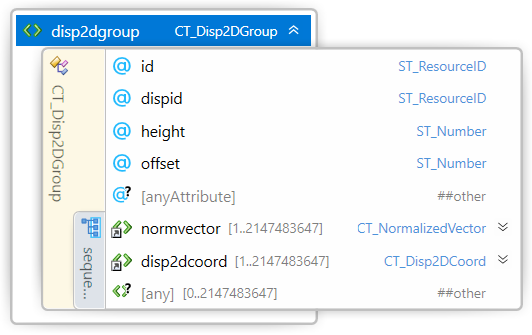
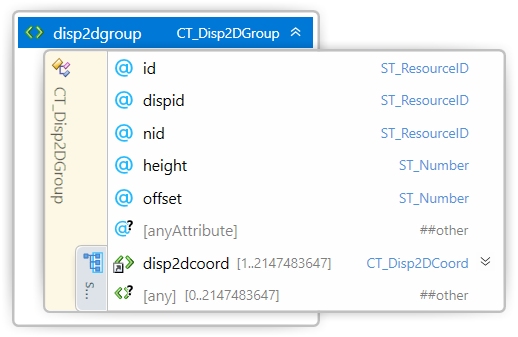
Split normvectorgroup
Split the normvectorgroup so indexing the elements is not confusing

diff --git a/3MF Displacement Extension.md b/3MF Displacement Extension.md
@@ -13,7 +13,7 @@
 
 
 
-| **Version** | 0.7.3 |
+| **Version** | 0.7.4 |
 | --- | --- |
 | **Status** | Draft |
 
@@ -29,7 +29,8 @@
   * [Chapter 2. Displacement Maps](#chapter-2-displacement-maps)
   * [Chapter 3. Resources](#chapter-3-resources)
     + [3.1 Displacement2D](#31-displacement2d)
-    + [3.2 Disp2DGroup](#32-disp2dgroup)
+    + [3.2 NormVectorGroup](#32-normvectorgroup)
+    + [3.3 Disp2DGroup](#33-disp2dgroup)
   * [Chapter 4. Object](#chapter-4-object)
 	+ [4.1 Triangle](#41-triangle)
   * [Chapter 5. Usage rules](#chapter-5-usage-rules)
@@ -63,7 +64,7 @@ This extension MUST be used only with Core specification 1.x.
 
 See [the 3MF Core Specification conventions](https://github.com/3MFConsortium/spec_core/blob/1.3.0/3MF%20Core%20Specification.md#document-conventions).
 
-In this extension specification, as an example, the prefix "d" maps to the xml-namespace "http://schemas.microsoft.com/3dmanufacturing/displacement/2018/05". See Appendix [C.3 Namespaces](#c3-namespaces).
+In this extension specification, as an example, the prefix "d" maps to the xml-namespace "http://schemas.microsoft.com/3dmanufacturing/displacement/2023/05". See Appendix [C.3 Namespaces](#c3-namespaces).
 
 ## Language Notes
 
@@ -286,38 +287,21 @@ The displacement texture values range are independent from the image coding rang
 
 **filter** - The producer MAY require the use of a specific filter type by specifying either “linear” for bilinear interpolation or “nearest” for nearest neighbor interpolation. The producer SHOULD use “auto” to indicate to the consumer to use the highest quality filter available. If the source texture is scaled with the model, the specified filter type MUST be applied to the scaling operation. The default value is “auto”.
 
-## 3.2 Disp2DGroup
-Element **\<disp2dgroup>**
+## 3.2 NormVectorGroup
+Element **\<normvectorgroup>**
 
-![Disp2dGroup XML structure](images/xsd_disp2dgroup.png)
+![NormVectorGroup XML structure](images/xsd_normvectorgroup.png)
 
 | Name   | Type   | Use   | Default   | Annotation |
 | --- | --- | --- | --- | --- |
-| id | **ST\_ResourceID** | required |   | ResourceID of this Disp2dGroup resource |
-| dispid | **ST\_ResourceID** | required |   | ID of the Displacement map used in this group |
-| height | **ST\_Number** | required |   | The amplitude of the mapped values in the texture |
-| offset | **ST\_Number** |  |  0 | Offset to the displacement map amplitude |
+| id | **ST\_ResourceID** | required |   | ResourceID of this NormVectorGroup resource |
 | @anyAttribute | | | | |
 
-A \<disp2dgroup> element acts as a container for texture coordinate properties. The order of these elements forms an implicit 0-based index that is referenced by other elements, such as the \<object> and \<triangle> elements. It also specifies which image to use, via dispid. The referenced \<displacement2d> elements are described above in [2.1 Displacement2D](#21-displacement2d).
-
-**id** - Specifies a unique identifier for this displacement resource. 
-
-**dispid** - Selects the ID of the Displacement map used in this displacement group. 
-
-**height** - The height attribute defines the displacement amplitude in the model units for the maximum texture value range.
-
-**offset** - The offset attribute defines the displacement offset in the model units. The offset default value is 0.
-
-The displacement map (dm), at barycentric coordinates u, v,is computed by:
-
-	dm(u,v) = texture(u,v) * height + offset
-
-where the texture value is in the range [0, 1], and the displacement map is applied in the model unit resolution, as specified in the 3MF core specification ([3.4 Model](https://github.com/3MFConsortium/spec_core/blob/1.3.0/3MF%20Core%20Specification.md#34-model)).
-
-A positive displacement map specifies an embossing and a negative displacement map specifies a debossing of the original mesh.
+A \<normvectorgroup> element acts as a container for normalized vectors properties. The order of these elements forms an implicit 0-based index that is referenced by the \<disp2dcoords> element.
 
 To avoid integer overflows, a texture coordinate group MUST contain less than 2^31 disp2dcoords.
+
+**id** - Specifies a unique identifier for this displacement resource. 
 
 ### 3.2.1 NormVector
 Element **\<normvector>**
@@ -347,7 +331,43 @@ Which is:
 
 	displacement vector = displacement map * factor * normalized vector
 
-### 3.2.2 Disp2DCoords
+## 3.3 Disp2DGroup
+Element **\<disp2dgroup>**
+
+![Disp2dGroup XML structure](images/xsd_disp2dgroup.png)
+
+| Name   | Type   | Use   | Default   | Annotation |
+| --- | --- | --- | --- | --- |
+| id | **ST\_ResourceID** | required |   | ResourceID of this Disp2dGroup resource |
+| dispid | **ST\_ResourceID** | required |   | ID of the Displacement map used in this group |
+| nid | **ST\_ResourceID** | required | | ID of the normalized vector group used in this group |
+| height | **ST\_Number** | required |   | The amplitude of the mapped values in the texture |
+| offset | **ST\_Number** |  |  0 | Offset to the displacement map amplitude |
+| @anyAttribute | | | | |
+
+A \<disp2dgroup> element acts as a container for texture coordinate properties. The order of these elements forms an implicit 0-based index that is referenced by other elements, such as the \<object> and \<triangle> elements. It also specifies which image to use, via dispid. The referenced \<displacement2d> elements are described above in [2.1 Displacement2D](#21-displacement2d).
+
+**id** - Specifies a unique identifier for this displacement resource. 
+
+**dispid** - Selects the ID of the Displacement map used in this displacement group. 
+
+**nid** - Specifies the normalized vector group used in this displacement group. 
+
+**height** - The height attribute defines the displacement amplitude in the model units for the maximum texture value range.
+
+**offset** - The offset attribute defines the displacement offset in the model units. The offset default value is 0.
+
+The displacement map (dm), at barycentric coordinates u, v,is computed by:
+
+	dm(u,v) = texture(u,v) * height + offset
+
+where the texture value is in the range [0, 1], and the displacement map is applied in the model unit resolution, as specified in the 3MF core specification ([3.4 Model](https://github.com/3MFConsortium/spec_core/blob/1.3.0/3MF%20Core%20Specification.md#34-model)).
+
+A positive displacement map specifies an embossing and a negative displacement map specifies a debossing of the original mesh.
+
+To avoid integer overflows, a texture coordinate group MUST contain less than 2^31 disp2dcoords.
+
+### 3.3.1 Disp2DCoords
 Element **\<disp2dcoords>**
 
 ![Disp2dCoords XML structure](images/xsd_disp2dcoords.png)
@@ -364,7 +384,7 @@ The \<disp2dcoords> element maps a vertex of a triangle to a position in image s
 
 **u, v** - The U, V coordinates within the texture image. The lower left corner of the texture is the u, v coordinate (0,0), and the upper right coordinate is (1,1). The UV values are not restricted to this range. When the UV coordinates exceed the [0,1] range, the tilestyleu and tilestylev MUST be applied according to the tiling specified in [3.1 Displacement2D](#31-displacement2d).
 
-**n** - The index to the normalized displacement vector, defined by the \<normvector> elements in the enclosing group.
+**n** - The index to the normalized displacement vector, defined by the \<normvector> elements in the selected \<normvectorgroup>.
 
 **f** - The optional displacement factor applied to the texture(u,v) value, in order to modulate the displacement vector across a triangle.
 
@@ -476,9 +496,9 @@ See [the 3MF Core Specification glossary](https://github.com/3MFConsortium/spec_
 
 ```xml
 <?xml version="1.0" encoding="UTF-8"?> 
-<xs:schema xmlns="http://schemas.microsoft.com/3dmanufacturing/displacement/2018/05"
+<xs:schema xmlns="http://schemas.microsoft.com/3dmanufacturing/displacement/2023/05"
 	xmlns:xs="http://www.w3.org/2001/XMLSchema" xmlns:xml="http://www.w3.org/XML/1998/namespace"
-	targetNamespace="http://schemas.microsoft.com/3dmanufacturing/displacement/2018/05"
+	targetNamespace="http://schemas.microsoft.com/3dmanufacturing/displacement/2023/05"
 	elementFormDefault="unqualified" attributeFormDefault="unqualified" blockDefault="#all">
 	<xs:import namespace="http://www.w3.org/XML/1998/namespace" schemaLocation="http://www.w3.org/2001/xml.xsd"/>
 	<xs:annotation> 
@@ -498,6 +518,7 @@ See [the 3MF Core Specification glossary](https://github.com/3MFConsortium/spec_
 		<xs:sequence>
 			<xs:choice minOccurs="0" maxOccurs="2147483647">
 				<xs:element ref="displacement2d" minOccurs="0" maxOccurs="2147483647"/>
+				<xs:element ref="normvectorgroup" minOccurs="0" maxOccurs="2147483647"/>
 				<xs:element ref="disp2dgroup" minOccurs="0" maxOccurs="2147483647"/>
 				<xs:any namespace="##other" processContents="lax" minOccurs="0"
 					maxOccurs="2147483647"/>
@@ -519,14 +540,23 @@ See [the 3MF Core Specification glossary](https://github.com/3MFConsortium/spec_
 	
 	<xs:complexType name="CT_Disp2DGroup">
 		<xs:sequence>
-			<xs:element ref="normvector" minOccurs="1" maxOccurs="2147483647"/>
 			<xs:element ref="disp2dcoord" minOccurs="1" maxOccurs="2147483647"/>
 			<xs:any namespace="##other" processContents="lax" minOccurs="0" maxOccurs="2147483647"/>
 		</xs:sequence>
 		<xs:attribute name="id" type="ST_ResourceID" use="required"/>
 		<xs:attribute name="dispid" type="ST_ResourceID" use="required"/>
+		<xs:attribute name="nid" type="ST_ResourceID" use="required"/>
 		<xs:attribute name="height" type="ST_Number" use="required"/>
 		<xs:attribute name="offset" type="ST_Number" default="0"/>
+		<xs:anyAttribute namespace="##other" processContents="lax"/> 
+	</xs:complexType>
+	
+	<xs:complexType name="CT_NormalizedVectorGroup">
+		<xs:sequence>
+			<xs:element ref="normvector" minOccurs="1" maxOccurs="2147483647"/>
+			<xs:any namespace="##other" processContents="lax" minOccurs="0" maxOccurs="2147483647"/>
+		</xs:sequence>
+		<xs:attribute name="id" type="ST_ResourceID"  use="required"/>
 		<xs:anyAttribute namespace="##other" processContents="lax"/> 
 	</xs:complexType>
 	
@@ -570,6 +600,7 @@ See [the 3MF Core Specification glossary](https://github.com/3MFConsortium/spec_
 			<xs:enumeration value="R"/>
 			<xs:enumeration value="G"/>
 			<xs:enumeration value="B"/>
+			<xs:enumeration value="A"/>
 		</xs:restriction>
 	</xs:simpleType>
 	<xs:simpleType name="ST_TileStyle">
@@ -619,6 +650,7 @@ See [the 3MF Core Specification glossary](https://github.com/3MFConsortium/spec_
 	<!-- Elements -->
 	<xs:element name="resources" type="CT_Resources"/>
 	<xs:element name="displacement2d" type="CT_Displacement2D"/>
+	<xs:element name="normvectorgroup" type="CT_NormalizedVectorGroup"/>
 	<xs:element name="normvector" type="CT_NormalizedVector"/>
 	<xs:element name="disp2dgroup" type="CT_Disp2DGroup"/>	
 	<xs:element name="disp2dcoord" type="CT_Disp2DCoord"/>
@@ -631,7 +663,7 @@ See [the 3MF Core Specification glossary](https://github.com/3MFConsortium/spec_
 
 | | |
 | --- | --- |
-|Displacement | [http://schemas.microsoft.com/3dmanufacturing/displacement/2018/05](http://schemas.microsoft.com/3dmanufacturing/displacement/2018/05) |
+|Displacement | [http://schemas.microsoft.com/3dmanufacturing/displacement/2023/05](http://schemas.microsoft.com/3dmanufacturing/displacement/2023/05) |
 
 # Appendix D: Example file
 
@@ -639,7 +671,7 @@ See [the 3MF Core Specification glossary](https://github.com/3MFConsortium/spec_
 ```xml
 <?xml version="1.0" encoding="UTF-8"?>
 <model xmlns="http://schemas.microsoft.com/3dmanufacturing/core/2015/02"
-  xmlns:d="http://schemas.microsoft.com/3dmanufacturing/displacement/2018/05"
+  xmlns:d="http://schemas.microsoft.com/3dmanufacturing/displacement/2023/05"
   unit="millimeter" xml:lang="en-US">
   <resources>
     <d:displacement2d id="10" path="/3D/Textures/label_mono.png" contenttype="image/png"/>
